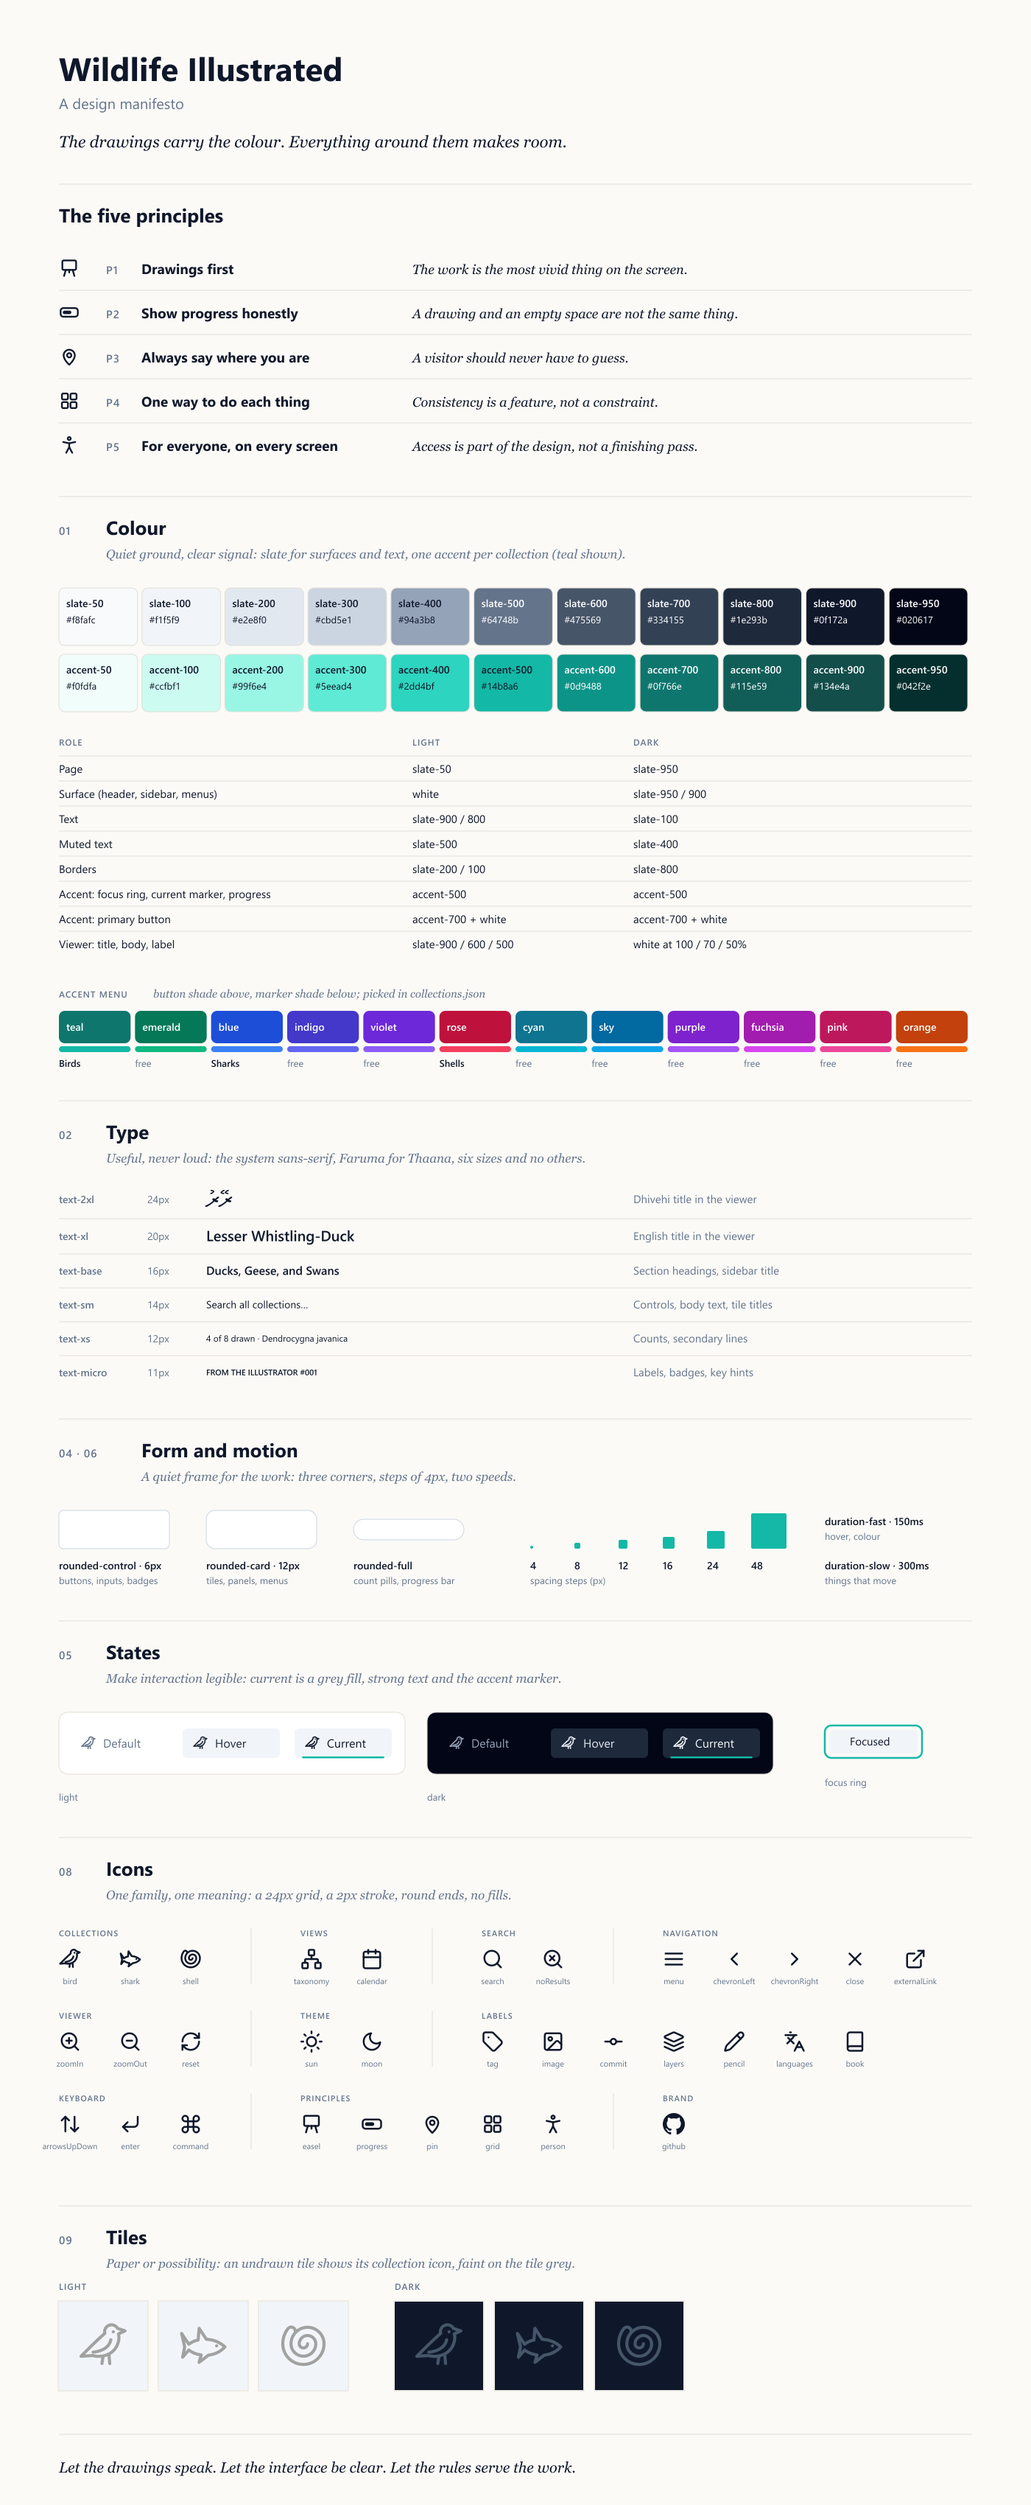
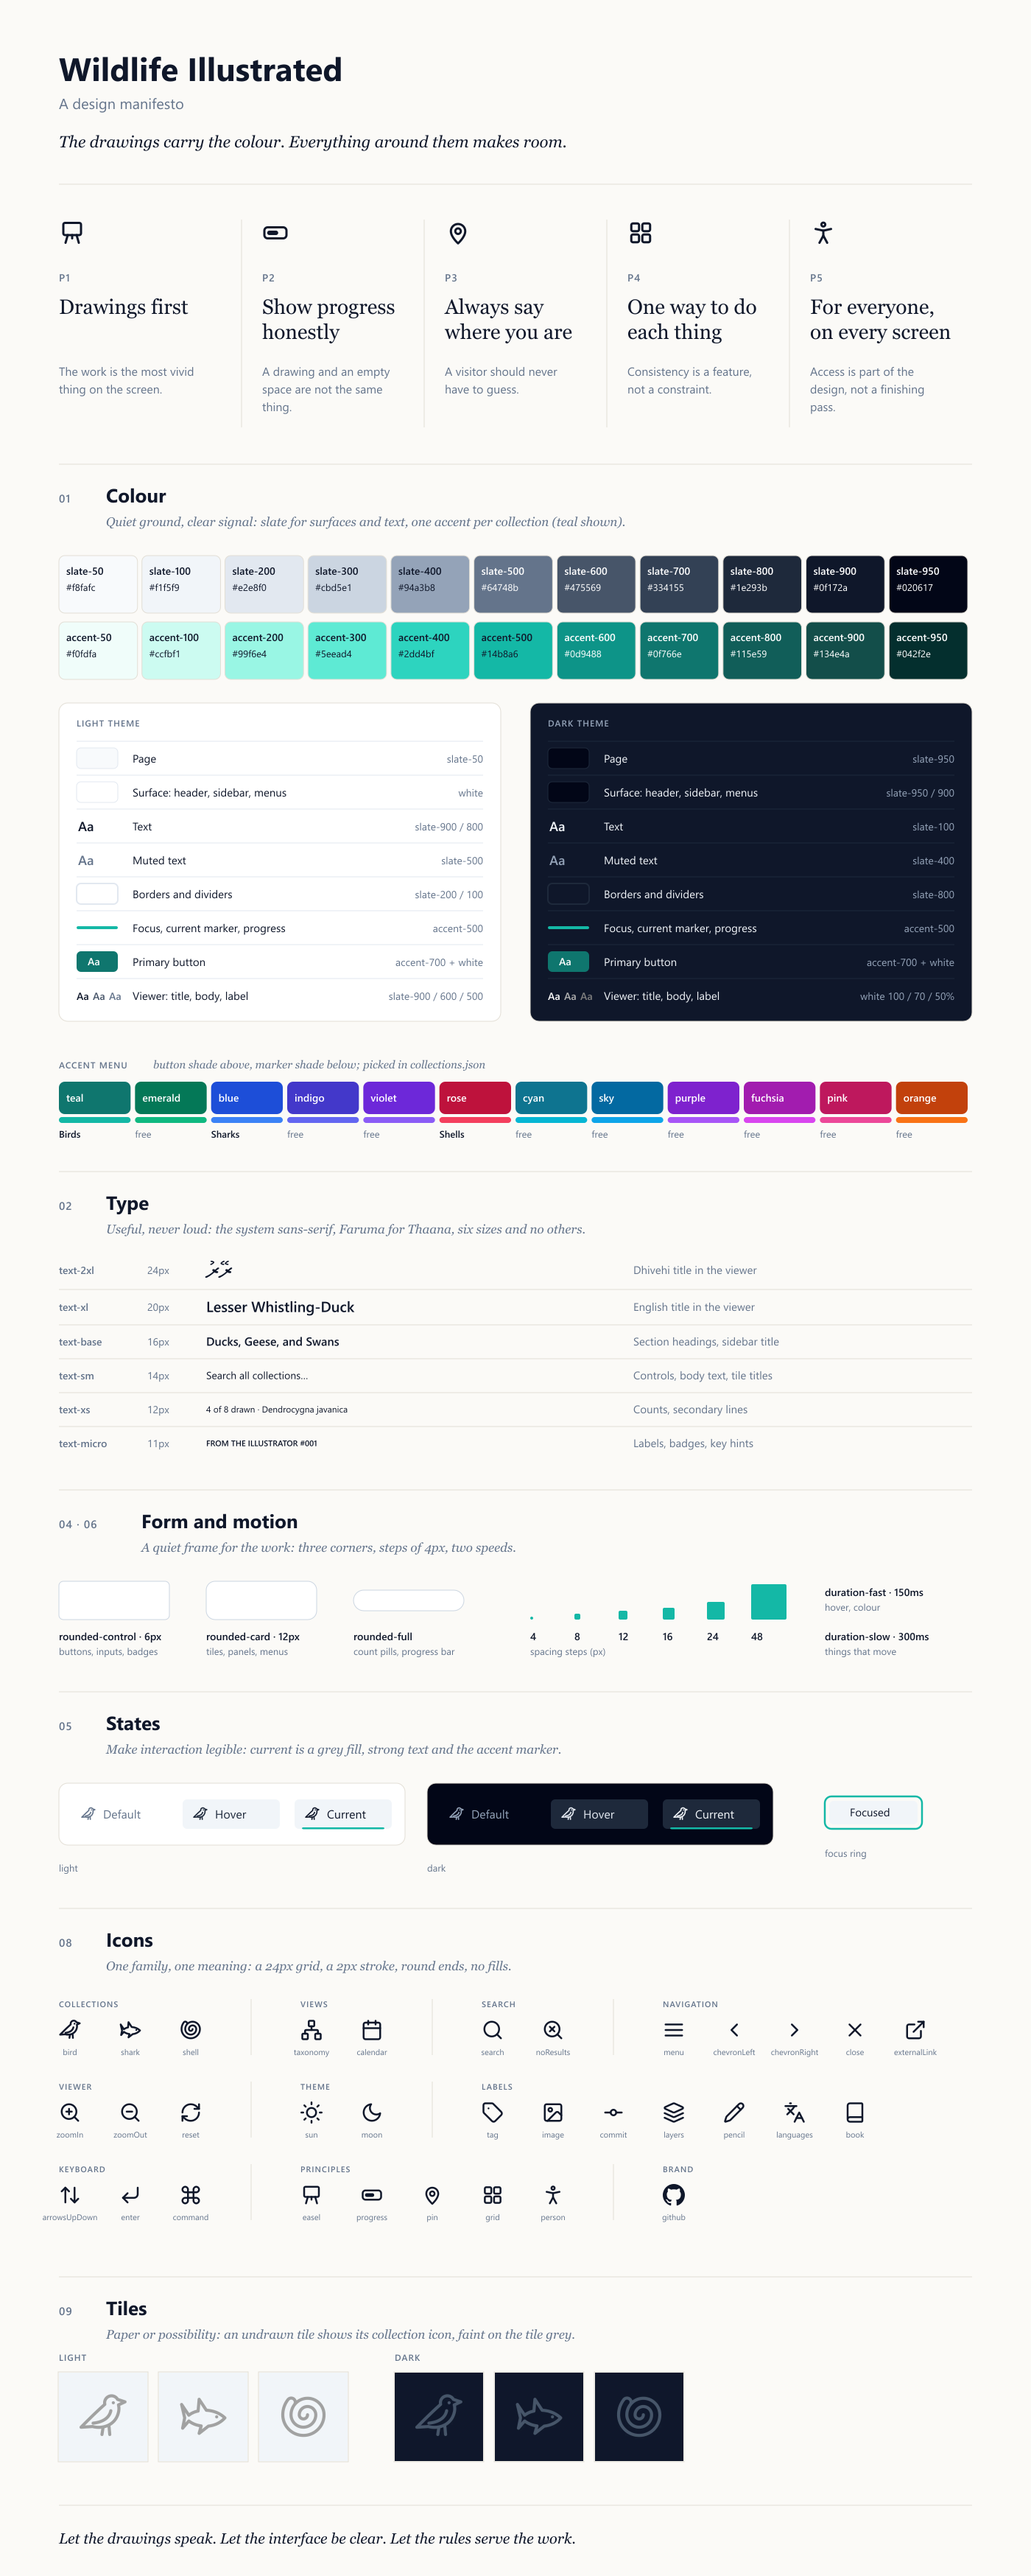
docs(design): principles as large columns, colour roles as theme cards
The guide image now sets the five principles side by side: icon, number,
title in a large serif, then the principle, with a fine divider between
columns. The colour roles table becomes a light and a dark card, each role
drawn in its real colours (swatch, "Aa", marker or button) beside its name
and tokens.

diff --git a/script/design/draw_design_guide.ts b/script/design/draw_design_guide.ts
@@ -26,7 +26,8 @@ const MUTED = SLATE['500'];
 const PAPER = '#fbfaf7';
 const RULE = '#e2ded5';
 const FONT = 'font-family="Segoe UI, Helvetica, Arial, sans-serif"';
-const SERIF = 'font-family="Georgia, Cambria, serif" font-style="italic"';
+const SERIF_FACE = 'font-family="Georgia, Cambria, serif"';
+const SERIF = `${SERIF_FACE} font-style="italic"`;
 
 const esc = (s: string) => s.replace(/&/g, '&amp;').replace(/</g, '&lt;');
 const text = (x: number, y: number, s: string, size = 15, fill = INK, weight = 400, extra = '') =>
@@ -37,6 +38,23 @@ const caps = (x: number, y: number, s: string) =>
   text(x, y, s.toUpperCase(), 12, MUTED, 600, 'letter-spacing="1"');
 const serif = (x: number, y: number, s: string, size = 17, fill = MUTED) =>
   `<text x="${x}" y="${y}" ${SERIF} font-size="${size}" fill="${fill}">${esc(s)}</text>`;
+
+/** Break `s` into lines of at most `max` characters, at spaces. */
+export function wrap(s: string, max: number): string[] {
+  const lines: string[] = [];
+  for (const word of s.split(' ')) {
+    const last = lines.at(-1);
+    if (last !== undefined && `${last} ${word}`.length <= max) {
+      lines[lines.length - 1] += ` ${word}`;
+    } else lines.push(word);
+  }
+  return lines;
+}
+/** Several lines of text, `lead` apart, as one <text> of <tspan>s. */
+const para = (x: number, y: number, lines: string[], lead: number, attrs: string) =>
+  `<text x="${x}" y="${y}" ${attrs}>${
+    lines.map((l, i) => `<tspan x="${x}" dy="${i ? lead : 0}">${esc(l)}</tspan>`).join('')
+  }</text>`;
 const rect = (x: number, y: number, w: number, h: number, fill: string, rx = 0, extra = '') =>
   `<rect x="${x}" y="${y}" width="${w}" height="${h}" rx="${rx}" fill="${fill}" ${extra}/>`;
 const line = (x1: number, y1: number, x2: number, y2: number) =>
@@ -135,6 +153,85 @@ function navStates(x: number, y: number, dark: boolean): string {
     item(x + 320, 'Current', current, true, true);
 }
 
+/**
+ * Where colour belongs, drawn in one theme: each role shown in its real colours
+ * on a card of that theme, with its name and its tokens.
+ */
+function roleCard(x: number, y: number, w: number, dark: boolean) {
+  const t = dark
+    ? {
+      card: SLATE['900'],
+      page: SLATE['950'],
+      surface: SLATE['950'],
+      ink: SLATE['100'],
+      muted: SLATE['400'],
+      border: SLATE['800'],
+      viewer: ['#ffffff', whiteOnBlack(0.7), whiteOnBlack(0.5)],
+    }
+    : {
+      card: '#ffffff',
+      page: SLATE['50'],
+      surface: '#ffffff',
+      ink: SLATE['900'],
+      muted: SLATE['500'],
+      border: SLATE['200'],
+      viewer: [SLATE['900'], SLATE['600'], SLATE['500']],
+    };
+  const aa = (ax: number, ay: number, fill: string, size = 18) =>
+    text(ax, ay, 'Aa', size, fill, 600);
+  const swatch = (fill: string, sx: number, sy: number) =>
+    rect(sx, sy, 56, 28, fill, 6, `stroke="${t.border}"`);
+  // Each sample is drawn in a 56 × 28 box whose top-left corner is (sx, sy).
+  const roles: [string, string, (sx: number, sy: number) => string][] = [
+    ['Page', dark ? 'slate-950' : 'slate-50', (sx, sy) => swatch(t.page, sx, sy)],
+    [
+      'Surface: header, sidebar, menus',
+      dark ? 'slate-950 / 900' : 'white',
+      (sx, sy) => swatch(t.surface, sx, sy),
+    ],
+    ['Text', dark ? 'slate-100' : 'slate-900 / 800', (sx, sy) => aa(sx + 2, sy + 21, t.ink)],
+    ['Muted text', dark ? 'slate-400' : 'slate-500', (sx, sy) => aa(sx + 2, sy + 21, t.muted)],
+    [
+      'Borders and dividers',
+      dark ? 'slate-800' : 'slate-200 / 100',
+      (sx, sy) => rect(sx, sy, 56, 28, 'none', 6, `stroke="${t.border}" stroke-width="2"`),
+    ],
+    [
+      'Focus, current marker, progress',
+      'accent-500',
+      (sx, sy) => rect(sx, sy + 12, 56, 4, TEAL['500'], 2),
+    ],
+    [
+      'Primary button',
+      'accent-700 + white',
+      (sx, sy) => rect(sx, sy, 56, 28, TEAL['700'], 6) + aa(sx + 15, sy + 19, '#ffffff', 14),
+    ],
+    ['Viewer: title, body, label', dark ? 'white 100 / 70 / 50%' : 'slate-900 / 600 / 500', (
+      sx,
+      sy,
+    ) => t.viewer.map((c, i) => aa(sx + i * 22, sy + 20, c, 14)).join('')],
+  ];
+  const row = 46;
+  const top = y + 52;
+  let svg = rect(x, y, w, 52 + roles.length * row + 12, t.card, 12, `stroke="${RULE}"`) +
+    text(
+      x + 24,
+      y + 32,
+      dark ? 'DARK THEME' : 'LIGHT THEME',
+      12,
+      t.muted,
+      600,
+      'letter-spacing="1"',
+    );
+  roles.forEach(([name, tokens, sample], i) => {
+    const ry = top + i * row;
+    svg += line(x + 24, ry, x + w - 24, ry).replace(RULE, t.border) + sample(x + 24, ry + 9) +
+      text(x + 100, ry + 29, name, 15, t.ink) +
+      text(x + w - 24, ry + 29, tokens, 14, t.muted, 400, 'text-anchor="end"');
+  });
+  return { svg, bottom: top + roles.length * row + 12 };
+}
+
 type Overlay = OverlayOptions;
 
 /** The guide as an SVG, plus the placeholder images to composite on top of it. */
@@ -151,19 +248,20 @@ export async function designGuide(
       serif(X, 200, 'The drawings carry the colour. Everything around them makes room.', 22, INK),
   );
 
-  // ── The five principles: icon, number, title, and the principle in one line ──
+  // ── The five principles, side by side: icon, number, title, and the principle ──
   let y = 250;
-  parts.push(rule(y) + text(X, y + 52, 'The five principles', 26, INK, 700));
+  parts.push(rule(y));
+  const colW = (W - 2 * X) / PRINCIPLES.length;
   PRINCIPLES.forEach((p, i) => {
-    const ry = y + 84 + i * 60;
+    const x = X + i * colW + (i ? 28 : 0);
     parts.push(
-      (i ? rule(ry) : '') + icon(p.icon, X, ry + 16, 28, INK) +
-        text(X + 64, ry + 38, `P${i + 1}`, 15, MUTED, 600, 'letter-spacing="1"') +
-        text(X + 112, ry + 38, p.title, 19, INK, 700) +
-        serif(X + 480, ry + 38, p.summary, 18, INK),
+      (i ? line(x - 28, y + 48, x - 28, y + 330) : '') + icon(p.icon, x, y + 48, 36, INK) +
+        text(x, y + 132, `P${i + 1}`, 14, MUTED, 600, 'letter-spacing="1"') +
+        para(x, y + 176, wrap(p.title, 15), 34, `${SERIF_FACE} font-size="28" fill="${INK}"`) +
+        para(x, y + 260, wrap(p.summary, 26), 24, `${FONT} font-size="16" fill="${MUTED}"`),
     );
   });
-  y += 84 + PRINCIPLES.length * 60 + 40;
+  y += 380;
 
   // ── 01 Colour ──
   let s = section(
@@ -173,26 +271,10 @@ export async function designGuide(
     'Quiet ground, clear signal: slate for surfaces and text, one accent per collection (teal shown).',
   );
   parts.push(s.svg, ramp(s.top, 'slate', SLATE), ramp(s.top + 90, 'accent', TEAL));
-  const roles = [
-    ['Page', 'slate-50', 'slate-950'],
-    ['Surface (header, sidebar, menus)', 'white', 'slate-950 / 900'],
-    ['Text', 'slate-900 / 800', 'slate-100'],
-    ['Muted text', 'slate-500', 'slate-400'],
-    ['Borders', 'slate-200 / 100', 'slate-800'],
-    ['Accent: focus ring, current marker, progress', 'accent-500', 'accent-500'],
-    ['Accent: primary button', 'accent-700 + white', 'accent-700 + white'],
-    ['Viewer: title, body, label', 'slate-900 / 600 / 500', 'white at 100 / 70 / 50%'],
-  ];
-  let ry = s.top + 214;
-  parts.push(caps(X, ry, 'Role') + caps(X + 480, ry, 'Light') + caps(X + 780, ry, 'Dark'));
-  roles.forEach(([role, light, dark], i) => {
-    const rowY = ry + 14 + i * 34;
-    parts.push(
-      rule(rowY) + text(X, rowY + 23, role, 15) + text(X + 480, rowY + 23, light, 15) +
-        text(X + 780, rowY + 23, dark, 15),
-    );
-  });
-  ry += 14 + roles.length * 34 + 56;
+  const cardW = (W - 2 * X - 40) / 2;
+  const card = roleCard(X, s.top + 200, cardW, false);
+  parts.push(card.svg, roleCard(X + cardW + 40, s.top + 200, cardW, true).svg);
+  const ry = card.bottom + 64;
 
   // The accent menu: every hue a collection may pick, and who has picked it.
   const menu = await accentMenu();

diff --git a/script/design/principles_contract_test.ts b/script/design/principles_contract_test.ts
@@ -42,11 +42,12 @@ test('each principle has its own icon, in the Principles group of the registry',
 });
 
 test('the design guide image shows every principle, numbered P1 to P5', async () => {
-  const { svg } = await designGuide();
+  // Titles and summaries wrap onto several <tspan> lines; join them back up.
+  const svg = (await designGuide()).svg.replace(/<\/tspan><tspan[^>]*>/g, ' ');
   PRINCIPLES.forEach((p, i) => {
     assertStringIncludes(svg, `>P${i + 1}</text>`);
-    assertStringIncludes(svg, `>${p.title}</text>`);
-    assertStringIncludes(svg, `>${p.summary}</text>`);
+    assertStringIncludes(svg, `>${p.title}</tspan>`);
+    assertStringIncludes(svg, `>${p.summary}</tspan>`);
     assertStringIncludes(svg, ICONS[p.icon].body);
   });
 });
